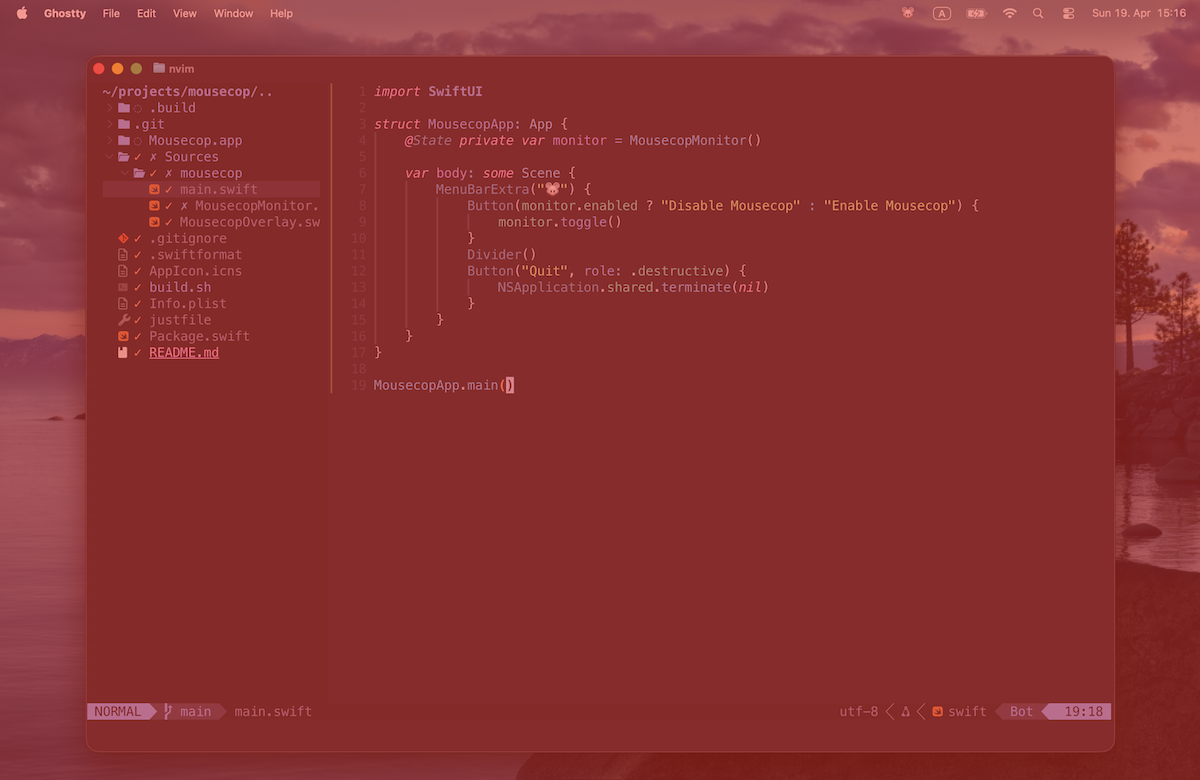
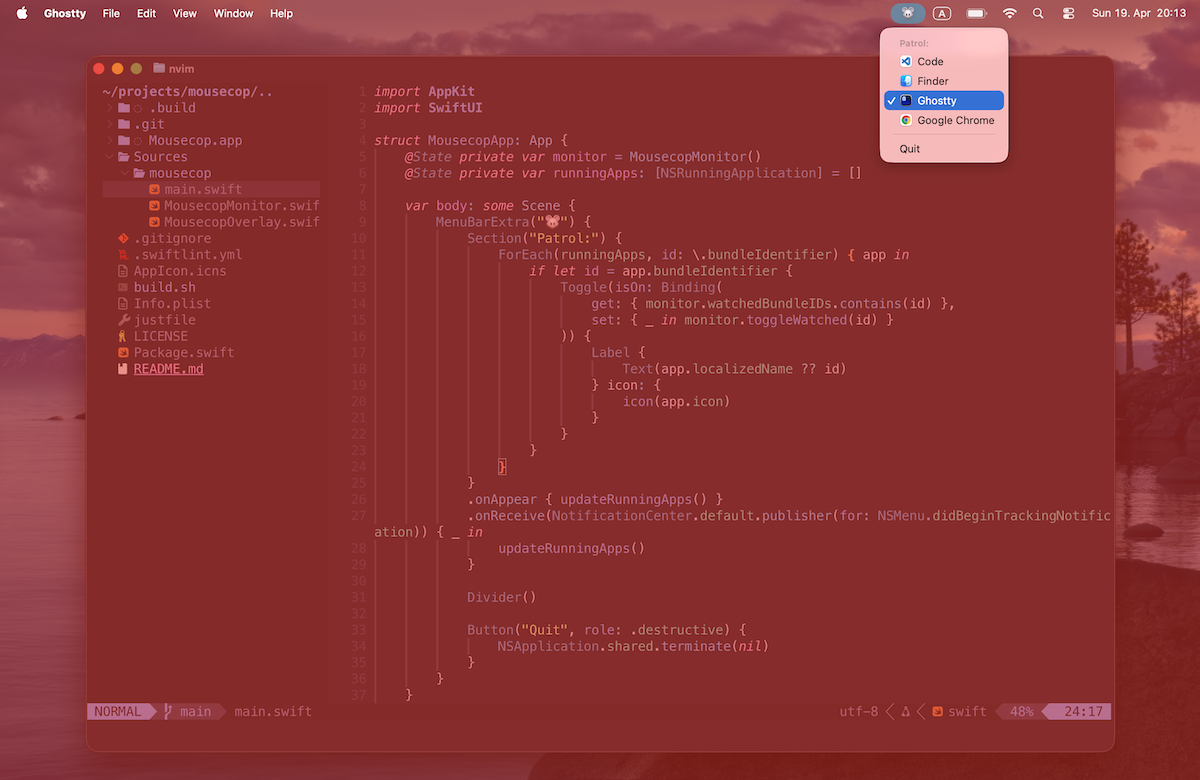
feat: monitor in specified apps only

diff --git a/Sources/mousecop/main.swift b/Sources/mousecop/main.swift
@@ -1,18 +1,49 @@
+import AppKit
 import SwiftUI
 
 struct MousecopApp: App {
     @State private var monitor = MousecopMonitor()
+    @State private var runningApps: [NSRunningApplication] = []
 
     var body: some Scene {
         MenuBarExtra("🐭") {
-            Button(monitor.enabled ? "Disable Mousecop" : "Enable Mousecop") {
-                monitor.toggle()
+            Section("Patrol:") {
+                ForEach(runningApps, id: \.bundleIdentifier) { app in
+                    if let id = app.bundleIdentifier {
+                        Toggle(isOn: Binding(
+                            get: { monitor.monitoredBundleIDs.contains(id) },
+                            set: { _ in monitor.toggleMonitored(id) }
+                        )) {
+                            Label {
+                                Text(app.localizedName ?? id)
+                            } icon: {
+                                icon(app.icon)
+                            }
+                        }
+                    }
+                }
             }
+            .onAppear { updateRunningApps() }
+            .onReceive(NotificationCenter.default.publisher(for: NSMenu.didBeginTrackingNotification)) { _ in
+                updateRunningApps()
+            }
+
             Divider()
+
             Button("Quit", role: .destructive) {
                 NSApplication.shared.terminate(nil)
             }
         }
+    }
+
+    private func updateRunningApps() {
+        runningApps = NSWorkspace.shared.runningApplications
+            .filter { $0.activationPolicy == .regular && $0.bundleIdentifier != Bundle.main.bundleIdentifier }
+            .sorted { ($0.localizedName ?? "") < ($1.localizedName ?? "") }
+    }
+
+    private func icon(_ nsImage: NSImage?) -> Image {
+        if let img = nsImage { Image(nsImage: img) } else { Image(systemName: "app.dashed") }
     }
 }
 

diff --git a/Sources/mousecop/MousecopMonitor.swift b/Sources/mousecop/MousecopMonitor.swift
@@ -4,7 +4,9 @@ import Observation
 @MainActor
 @Observable
 final class MousecopMonitor {
-    var enabled = true
+    var monitoredBundleIDs: Set<String> = Set(UserDefaults.standard.stringArray(forKey: "monitoredBundleIDs") ?? []) {
+        didSet { UserDefaults.standard.set(Array(monitoredBundleIDs), forKey: "monitoredBundleIDs") }
+    }
 
     private let overlay = MousecopOverlay()
     private var eventMonitor: Any?
@@ -19,7 +21,8 @@ final class MousecopMonitor {
     }
 
     private func handleMouseEvent() {
-        guard enabled else { return }
+        guard let frontmost = NSWorkspace.shared.frontmostApplication?.bundleIdentifier,
+              monitoredBundleIDs.contains(frontmost) else { return }
         hideTimer?.invalidate()
         hideTimer = Timer.scheduledTimer(withTimeInterval: 0.3, repeats: false) { [weak self] _ in
             MainActor.assumeIsolated { self?.overlay.hide() }
@@ -27,8 +30,7 @@ final class MousecopMonitor {
         overlay.show()
     }
 
-    func toggle() {
-        enabled.toggle()
-        if !enabled { overlay.hide() }
+    func toggleMonitored(_ bundleID: String) {
+        monitoredBundleIDs.formSymmetricDifference([bundleID])
     }
 }

diff --git a/Sources/mousecop/MousecopOverlay.swift b/Sources/mousecop/MousecopOverlay.swift
@@ -11,7 +11,7 @@ final class MousecopOverlay {
             backing: .buffered,
             defer: false
         )
-        window.level = .screenSaver
+        window.level = .floating
         window.alphaValue = 0.5
         window.ignoresMouseEvents = true
         window.backgroundColor = .red
